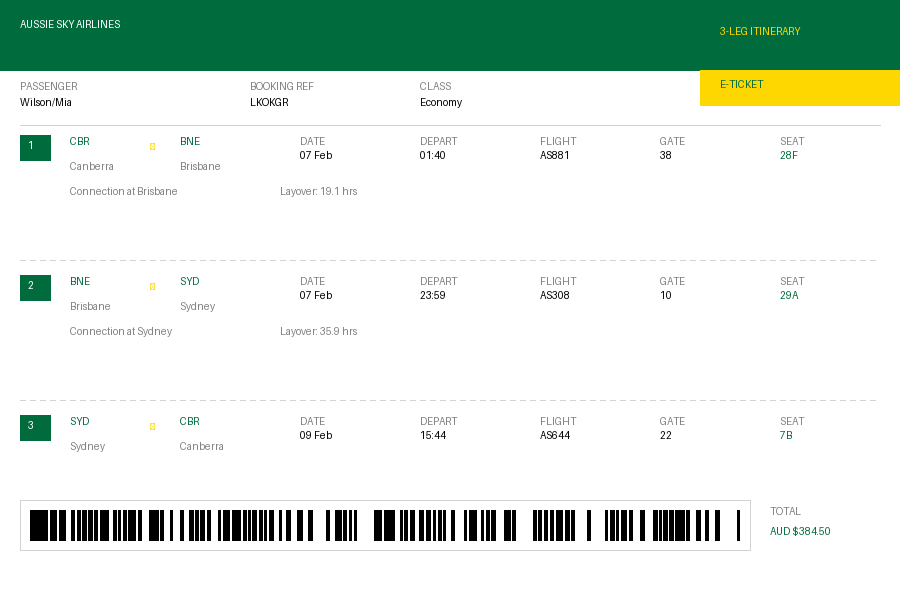
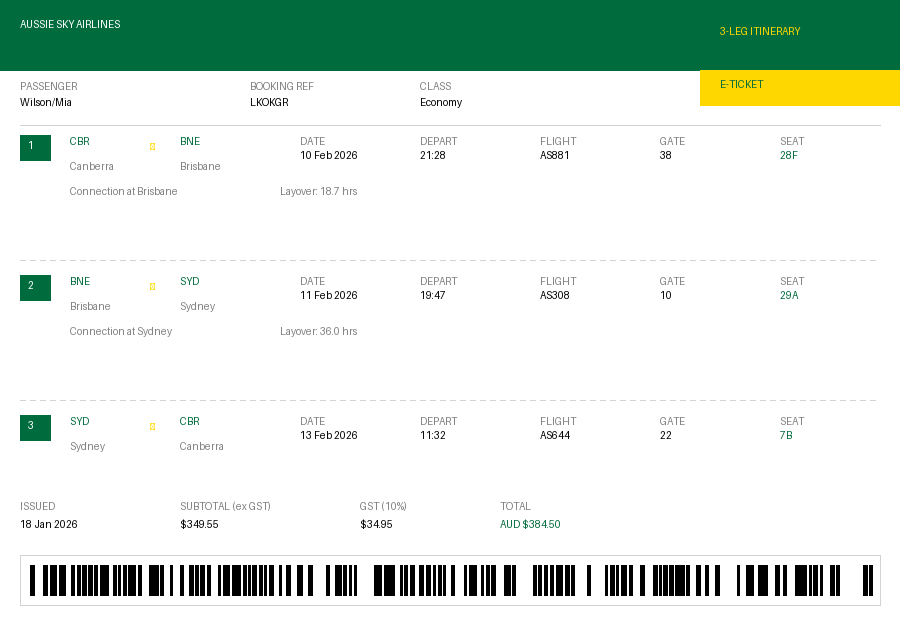
Refactor code structure for improved readability and maintainability

diff --git a/tools/generate_airline_tickets.py b/tools/generate_airline_tickets.py
@@ -83,6 +83,25 @@ def generate_price(travel_class: str) -> float:
     return round(random.uniform(low, high), 2)
 
 
+def calculate_gst(total_amount: float, gst_free: bool = False) -> tuple[float, float]:
+    """
+    Calculate GST from a GST-inclusive total.
+
+    Australian domestic flights include 10% GST.
+    International flights are GST-free.
+
+    Returns:
+        Tuple of (gst_amount, gst_free_subtotal)
+    """
+    if gst_free:
+        return 0.0, total_amount
+
+    # GST = Total / 11 (since Total = Subtotal + 10% of Subtotal = 1.1 * Subtotal)
+    gst_amount = round(total_amount / 11, 2)
+    subtotal = round(total_amount - gst_amount, 2)
+    return gst_amount, subtotal
+
+
 def hex_to_rgb(hex_color: str) -> tuple:
     """Convert hex color to RGB tuple."""
     hex_color = hex_color.lstrip("#")
@@ -135,11 +154,13 @@ def draw_ticket(
     travel_class: str,
     price: float,
     output_path: Path,
+    issue_date: datetime | None = None,
+    gst_amount: float = 0.0,
 ) -> None:
     """Draw and save a single-leg airline ticket image."""
 
-    # Ticket dimensions (standard boarding pass proportions)
-    width, height = 900, 400
+    # Ticket dimensions (standard boarding pass proportions) - increased height for GST info
+    width, height = 900, 450
     img = Image.new("RGB", (width, height), "white")
     draw = ImageDraw.Draw(img)
 
@@ -205,8 +226,26 @@ def draw_ticket(
     draw.text((col4_x, y_offset + 100), "FLIGHT", fill="gray", font=fonts["small"])
     draw.text((col4_x, y_offset + 118), flight_number, fill="black", font=fonts["medium"])
 
+    # Issue date and GST section (above barcode)
+    info_y = y_offset + 170
+
+    if issue_date:
+        draw.text((30, info_y), "ISSUED", fill="gray", font=fonts["small"])
+        draw.text((30, info_y + 18), issue_date.strftime("%d %b %Y"), fill="black", font=fonts["medium"])
+
+    # GST breakdown
+    subtotal = price - gst_amount
+    draw.text((200, info_y), "SUBTOTAL (ex GST)", fill="gray", font=fonts["small"])
+    draw.text((200, info_y + 18), f"${subtotal:.2f}", fill="black", font=fonts["medium"])
+
+    draw.text((380, info_y), "GST (10%)", fill="gray", font=fonts["small"])
+    draw.text((380, info_y + 18), f"${gst_amount:.2f}", fill="black", font=fonts["medium"])
+
+    draw.text((520, info_y), "TOTAL", fill="gray", font=fonts["small"])
+    draw.text((520, info_y + 18), f"AUD ${price:.2f}", fill=main_color, font=fonts["medium"])
+
     # Barcode area (simulated)
-    barcode_y = height - 80
+    barcode_y = height - 70
     draw.rectangle([(20, barcode_y), (width - 20, barcode_y + 50)], outline="lightgray")
 
     # Simulated barcode lines
@@ -216,9 +255,6 @@ def draw_ticket(
         if random.random() > 0.3:
             draw.rectangle([(x, barcode_y + 10), (x + bar_width, barcode_y + 40)], fill="black")
         x += bar_width + random.randint(1, 3)
-
-    # Price in corner (optional - some tickets show this)
-    draw.text((width - 100, barcode_y + 55), f"AUD ${price:.2f}", fill="gray", font=fonts["small"])
 
     # Save
     img.save(output_path, quality=95)
@@ -232,6 +268,8 @@ def draw_multi_leg_ticket(
     travel_class: str,
     total_price: float,
     output_path: Path,
+    issue_date: datetime | None = None,
+    gst_amount: float = 0.0,
 ) -> None:
     """
     Draw and save a multi-leg itinerary ticket image.
@@ -245,14 +283,16 @@ def draw_multi_leg_ticket(
         travel_class: Travel class
         total_price: Total price for all legs
         output_path: Output file path
+        issue_date: Date ticket was issued
+        gst_amount: GST amount included in total
     """
     num_legs = len(legs)
 
-    # Adjust height based on number of legs
+    # Adjust height based on number of legs (increased footer for GST info)
     width = 900
     header_height = 70
     leg_height = 140
-    footer_height = 100
+    footer_height = 150  # Increased to fit GST breakdown
     height = header_height + (leg_height * num_legs) + footer_height
 
     img = Image.new("RGB", (width, height), "white")
@@ -315,7 +355,7 @@ def draw_multi_leg_ticket(
         col5 = 780
 
         draw.text((col1, y), "DATE", fill="gray", font=fonts["tiny"])
-        draw.text((col1, y + 14), leg["flight_date"].strftime("%d %b"), fill="black", font=fonts["small"])
+        draw.text((col1, y + 14), leg["flight_date"].strftime("%d %b %Y"), fill="black", font=fonts["small"])
 
         draw.text((col2, y), "DEPART", fill="gray", font=fonts["tiny"])
         draw.text((col2, y + 14), leg["flight_date"].strftime("%H:%M"), fill="black", font=fonts["small"])
@@ -344,21 +384,35 @@ def draw_multi_leg_ticket(
             for dash_x in range(20, width - 20, 10):
                 draw.line([(dash_x, y + leg_height - 15), (dash_x + 5, y + leg_height - 15)], fill="lightgray", width=1)
 
-    # Footer with barcode and total
-    barcode_y = height - footer_height + 10
-    draw.rectangle([(20, barcode_y), (width - 150, barcode_y + 50)], outline="lightgray")
+    # Issue date and GST breakdown section
+    info_y = height - footer_height + 10
+
+    if issue_date:
+        draw.text((20, info_y), "ISSUED", fill="gray", font=fonts["small"])
+        draw.text((20, info_y + 18), issue_date.strftime("%d %b %Y"), fill="black", font=fonts["medium"])
+
+    # GST breakdown
+    subtotal = total_price - gst_amount
+    draw.text((180, info_y), "SUBTOTAL (ex GST)", fill="gray", font=fonts["small"])
+    draw.text((180, info_y + 18), f"${subtotal:.2f}", fill="black", font=fonts["medium"])
+
+    draw.text((360, info_y), "GST (10%)", fill="gray", font=fonts["small"])
+    draw.text((360, info_y + 18), f"${gst_amount:.2f}", fill="black", font=fonts["medium"])
+
+    draw.text((500, info_y), "TOTAL", fill="gray", font=fonts["small"])
+    draw.text((500, info_y + 18), f"AUD ${total_price:.2f}", fill=main_color, font=fonts["medium"])
+
+    # Footer with barcode
+    barcode_y = info_y + 55
+    draw.rectangle([(20, barcode_y), (width - 20, barcode_y + 50)], outline="lightgray")
 
     # Simulated barcode
     x = 30
-    while x < width - 160:
+    while x < width - 30:
         bar_width = random.choice([2, 3, 4])
         if random.random() > 0.3:
             draw.rectangle([(x, barcode_y + 10), (x + bar_width, barcode_y + 40)], fill="black")
         x += bar_width + random.randint(1, 3)
-
-    # Total price
-    draw.text((width - 130, barcode_y + 5), "TOTAL", fill="gray", font=fonts["small"])
-    draw.text((width - 130, barcode_y + 25), f"AUD ${total_price:.2f}", fill=main_color, font=fonts["medium"])
 
     # Save
     img.save(output_path, quality=95)
@@ -414,6 +468,12 @@ def generate_ticket_batch(
         gate = generate_gate()
         price = generate_price(travel_class)
 
+        # Generate issue date (1-30 days before travel date)
+        issue_date = flight_date - timedelta(days=random.randint(1, 30))
+
+        # Calculate GST (domestic flights include 10% GST)
+        gst_amount, _subtotal = calculate_gst(price, gst_free=False)
+
         # Generate filename
         filename = f"ticket_{i+1:03d}_{airline['code']}_{origin['code']}_{destination['code']}.png"
         output_path = output_dir / filename
@@ -432,10 +492,11 @@ def generate_ticket_batch(
             travel_class=travel_class,
             price=price,
             output_path=output_path,
+            issue_date=issue_date,
+            gst_amount=gst_amount,
         )
 
-        # Store metadata for ground truth - simplified expense claim format (6 fields)
-        # Matches travel_expense prompt in prompts/internvl3_prompts.yaml
+        # Store metadata for ground truth - expense claim format with GST
         ticket_meta = {
             "filename": filename,
             # Expense claim essentials: WHO, WHERE, WHEN, HOW, HOW MUCH, PROVIDER
@@ -443,6 +504,8 @@ def generate_ticket_batch(
             "TRAVEL_MODE": "plane",
             "TRAVEL_ROUTE": f"{origin['city']} → {destination['city']}",
             "TRAVEL_DATES": flight_date.strftime("%d %b %Y"),
+            "INVOICE_DATE": issue_date.strftime("%d %b %Y"),
+            "GST_AMOUNT": f"${gst_amount:.2f}",
             "TOTAL_AMOUNT": f"${price:.2f}",
             "SUPPLIER_NAME": airline["name"],
         }
@@ -569,6 +632,13 @@ def generate_multi_leg_batch(
         base_price = generate_price(travel_class)
         total_price = round(base_price * num_legs * random.uniform(0.8, 1.1), 2)
 
+        # Generate issue date (1-30 days before first travel date)
+        first_travel_date = legs[0]["flight_date"]
+        issue_date = first_travel_date - timedelta(days=random.randint(1, 30))
+
+        # Calculate GST (domestic flights include 10% GST)
+        gst_amount, _subtotal = calculate_gst(total_price, gst_free=False)
+
         # Generate filename (origin to final destination)
         first_origin = route_cities[0]["code"]
         final_dest = route_cities[-1]["code"]
@@ -584,10 +654,11 @@ def generate_multi_leg_batch(
             travel_class=travel_class,
             total_price=total_price,
             output_path=output_path,
+            issue_date=issue_date,
+            gst_amount=gst_amount,
         )
 
-        # Store metadata for ground truth - simplified expense claim format (6 fields)
-        # Matches travel_expense prompt in prompts/internvl3_prompts.yaml
+        # Store metadata for ground truth - expense claim format with GST
 
         # Build route with → separator: "Sydney → Melbourne → Brisbane → Sydney"
         route_parts = [route_cities[0]["city"]]  # Start with origin
@@ -595,16 +666,18 @@ def generate_multi_leg_batch(
             route_parts.append(leg["destination"]["city"])
         travel_route = " → ".join(route_parts)
 
-        # Dates with " | " separator
+        # Dates with " | " separator (with year for itineraries now)
         travel_dates = " | ".join(leg["flight_date"].strftime("%d %b %Y") for leg in legs)
 
         ticket_meta = {
             "filename": filename,
-            # Expense claim essentials: WHO, WHERE, WHEN, HOW, HOW MUCH, PROVIDER
+            # Expense claim essentials: WHO, WHERE, WHEN, HOW, HOW MUCH, PROVIDER, GST
             "PASSENGER_NAME": passenger,
             "TRAVEL_MODE": "plane",
             "TRAVEL_ROUTE": travel_route,
             "TRAVEL_DATES": travel_dates,
+            "INVOICE_DATE": issue_date.strftime("%d %b %Y"),
+            "GST_AMOUNT": f"${gst_amount:.2f}",
             "TOTAL_AMOUNT": f"${total_price:.2f}",
             "SUPPLIER_NAME": airline["name"],
         }
